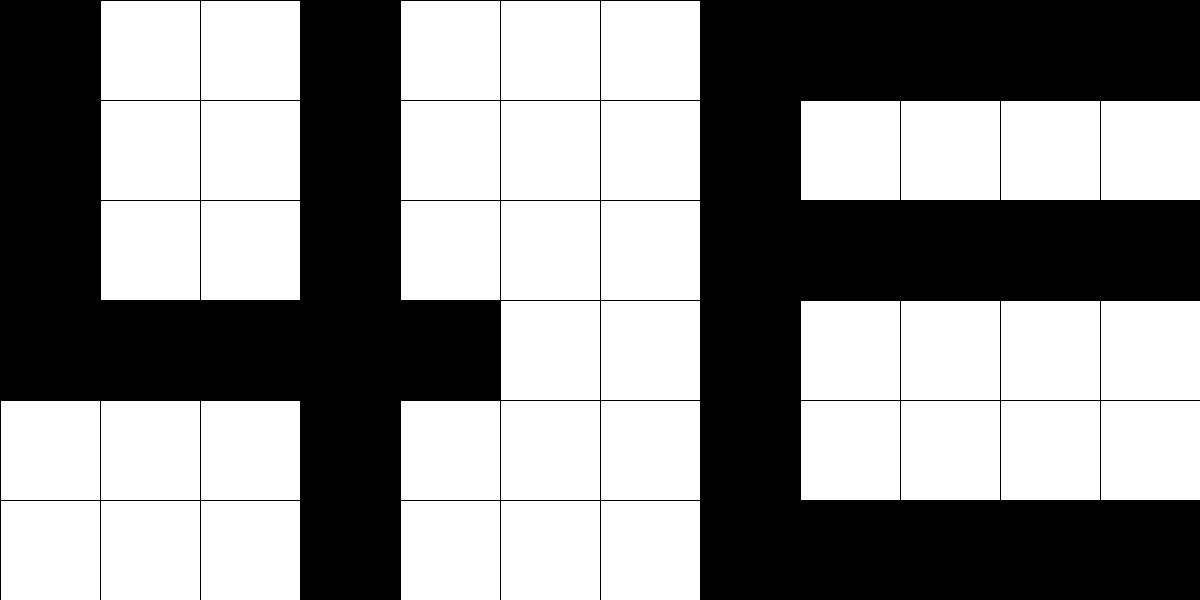
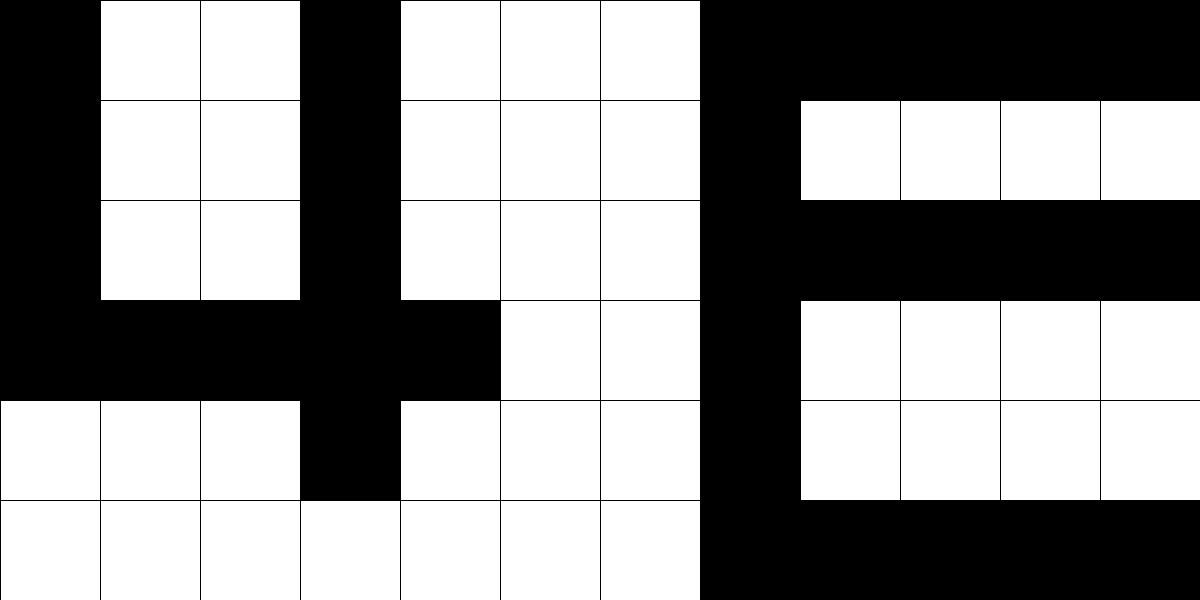
增加了测试样本

Changed region(s): [[0.2467, 0.81, 0.3392, 1.0]]

diff --git a/NN/1/hebbStart2.py b/NN/1/hebbStart2.py
@@ -30,11 +30,37 @@ TO = [
 	[-1,-1,-1, 1,-1,-1,-1,-1, 1,-1,-1,-1,-1, 1,-1,-1,-1,-1, 1,-1, 1,-1,-1, 1,-1, 1, 1, 1, 1,-1]
 ]
 
+test_one = [
+	[-1, 1, 1, 1,-1, 1,-1,-1,-1, 1, 1,-1,-1,-1, 1, 1,-1,-1,-1, 1, 1,-1,-1,-1, 1,-1,-1,-1,-1,-1],
+	[-1, 1, 1,-1,-1,-1,-1, 1,-1,-1,-1,-1, 1,-1,-1,-1,-1, 1,-1,-1,-1,-1, 1,-1,-1,-1,-1,-1,-1,-1],
+	[ 1, 1, 1,-1,-1,-1,-1,-1, 1,-1,-1,-1,-1, 1,-1,-1, 1, 1,-1,-1,-1, 1,-1,-1,-1,-1,-1,-1,-1, 1],
+	[ 1, 1, 1, 1,-1,-1,-1,-1,-1, 1,-1, 1, 1, 1, 1,-1,-1,-1,-1, 1,-1,-1,-1,-1, 1,-1,-1,-1,-1,-1],
+	[ 1,-1,-1, 1,-1, 1,-1,-1, 1,-1, 1,-1,-1, 1,-1, 1, 1, 1, 1, 1,-1,-1,-1, 1,-1,-1,-1,-1,-1,-1],
+	[ 1, 1, 1, 1, 1, 1,-1,-1,-1,-1, 1, 1, 1, 1,-1,-1,-1,-1,-1, 1,-1,-1,-1,-1, 1,-1,-1,-1,-1,-1],
+	[-1, 1, 1, 1, 1, 1,-1,-1,-1,-1, 1, 1, 1, 1,-1, 1,-1,-1,-1, 1, 1,-1,-1,-1, 1,-1,-1,-1,-1,-1],
+	[ 1, 1, 1, 1, 1,-1,-1,-1,-1, 1,-1,-1,-1,-1, 1,-1,-1,-1,-1, 1,-1,-1,-1,-1, 1,-1,-1,-1,-1, 1],
+	[-1, 1, 1, 1,-1, 1,-1,-1,-1, 1,-1, 1, 1, 1,-1, 1,-1,-1,-1, 1, 1,-1,-1,-1, 1,-1,-1,-1,-1,-1],
+	[-1, 1, 1, 1,-1, 1,-1,-1,-1, 1, 1, 1, 1, 1, 1,-1,-1,-1,-1, 1,-1,-1,-1,-1, 1,-1,-1,-1,-1,-1]
+]
+
+test_half = [
+	[-1, 1, 1, 1,-1, 1,-1,-1,-1, 1, 1,-1,-1,-1, 1,-1,-1,-1,-1,-1,-1,-1,-1,-1,-1,-1,-1,-1,-1,-1],
+	[-1, 1, 1,-1,-1,-1,-1, 1,-1,-1,-1,-1, 1,-1,-1,-1,-1,-1,-1,-1,-1,-1,-1,-1,-1,-1,-1,-1,-1,-1],
+	[ 1, 1, 1,-1,-1,-1,-1,-1, 1,-1,-1,-1,-1, 1,-1,-1,-1,-1,-1,-1,-1,-1,-1,-1,-1,-1,-1,-1,-1,-1],
+	[ 1, 1, 1, 1,-1,-1,-1,-1,-1, 1,-1, 1, 1, 1, 1,-1,-1,-1,-1,-1,-1,-1,-1,-1,-1,-1,-1,-1,-1,-1],
+	[ 1,-1,-1, 1,-1, 1,-1,-1, 1,-1, 1,-1,-1, 1,-1,-1,-1,-1,-1,-1,-1,-1,-1,-1,-1,-1,-1,-1,-1,-1],
+	[ 1, 1, 1, 1, 1, 1,-1,-1,-1,-1, 1, 1, 1, 1,-1,-1,-1,-1,-1,-1,-1,-1,-1,-1,-1,-1,-1,-1,-1,-1],
+	[-1, 1, 1, 1, 1, 1,-1,-1,-1,-1, 1, 1, 1, 1,-1,-1,-1,-1,-1,-1,-1,-1,-1,-1,-1,-1,-1,-1,-1,-1],
+	[ 1, 1, 1, 1, 1,-1,-1,-1,-1, 1,-1,-1,-1,-1, 1,-1,-1,-1,-1,-1,-1,-1,-1,-1,-1,-1,-1,-1,-1,-1],
+	[-1, 1, 1, 1,-1, 1,-1,-1,-1, 1,-1, 1, 1, 1,-1,-1,-1,-1,-1,-1,-1,-1,-1,-1,-1,-1,-1,-1,-1,-1],
+	[-1, 1, 1, 1,-1, 1,-1,-1,-1, 1, 1, 1, 1, 1, 1,-1,-1,-1,-1,-1,-1,-1,-1,-1,-1,-1,-1,-1,-1,-1]
+]
+
 if __name__ == '__main__':
 	
 	W = hebb.trainings(TI,TO)
 	i = 0
-	for p in TI:
+	for p in test_one:
 		a = hebb.start(p,W)
 		show.drawTwo(p,a,i)
 		i += 1
